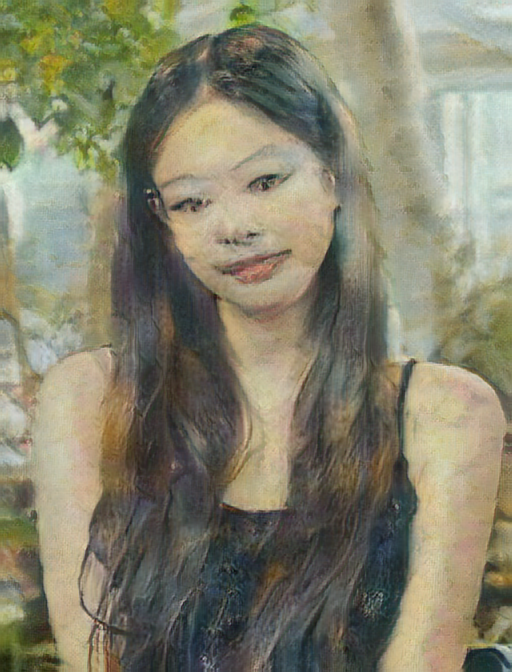
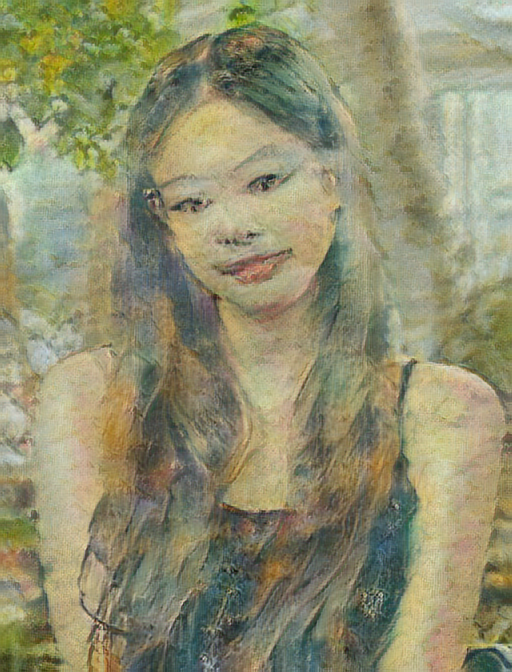
read me 수정

diff --git a/Generator/starGAN/v2/starGAN_v2.py b/Generator/starGAN/v2/starGAN_v2.py
@@ -82,8 +82,8 @@ class StarGAN_v2:
 
 
 if __name__ == '__main__':
-    source_image_path: str = './images/jindo.jpg'
-    reference_image_path: str = './images/fox.jpg'
+    source_image_path: str = './images/flickr_wild_000004.jpg'
+    reference_image_path: str = './images/flickr_cat_000008.jpg'
     pre_trained_model_path: str = './expr/checkpoints/000100_nets_ema.ckpt'
 
     stargan_v2 = StarGAN_v2(source_image_path=source_image_path,

diff --git a/Style-transfer/AdaIN.py b/Style-transfer/AdaIN.py
@@ -188,7 +188,7 @@ class AdaIN_v1:
 if __name__ == '__main__':
     content_image_path: str = './images/jennie.jpg'
     style_image_path: str = './images/claude-monet.jpg'
-    alpha: float = 0.7
+    alpha: float = 1.0
     assert (0.0 <= alpha <= 1.0)
 
     adain = AdaIN_v1(content_image=content_image_path, style_image=style_image_path, alpha=alpha)

diff --git a/README.md b/README.md
@@ -4,10 +4,39 @@
 
 This repository is still under construction.
 
+## References
+> [Github-AdaIN-style](https://github.com/xunhuang1995/AdaIN-style)
+
+> [Arbitrary Style Transfer in Real-time with Adaptive Instance Normalization](https://arxiv.org/abs/1703.06868)
+
+## Install:
+To install the current release:
+
+```shell
+$ pip install {}
+```
+
 ## Table of Contents
 
-## Install
+* AdaIN Style transfer
+
+![adain](https://user-images.githubusercontent.com/41291493/132440767-673332f9-6ec9-4fb9-aca6-236e4df64198.png)
+
+
 
 ## Usage:
+
+* Usage for AdaIN Style transfer
+
+``` python
+>>> from AdaIN import AdaIN_v1
+>>>
+>>> content_image_path: str = 'AAA.jpg'
+>>> style_image_path: str = 'BBB.jpg'
+>>> alpha: float = 0.7  # 0.0 <= alpha <= 1.0
+>>>
+>>> adain = AdaIN_v1(content_image=content_image_path, style_image=style_image_path, alpha=alpha)
+>>> adain.style_transfer()
+```
 
 ## TODO / Known Issues:
